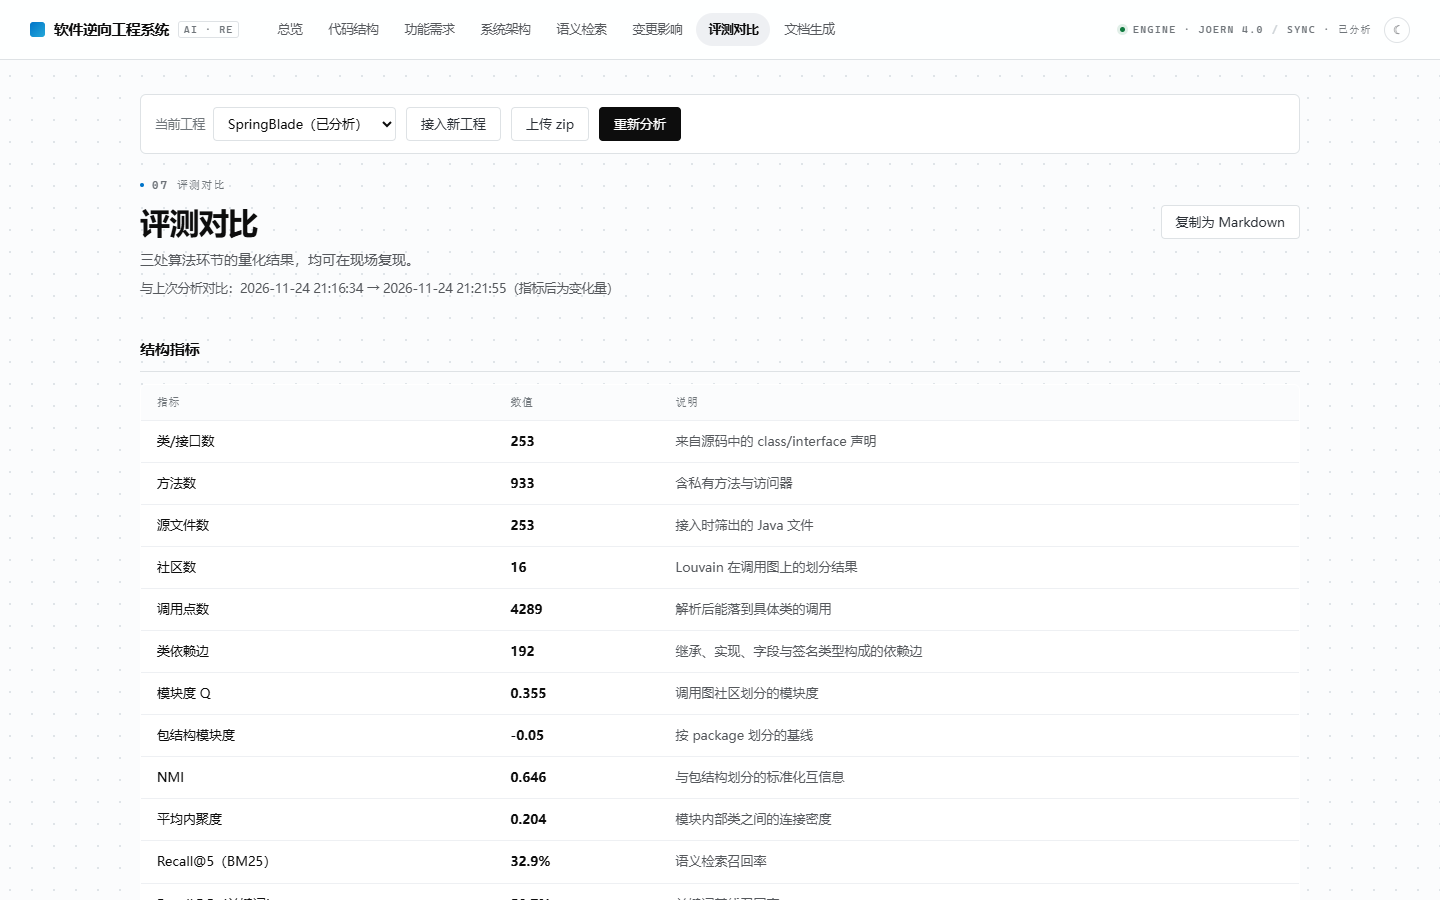
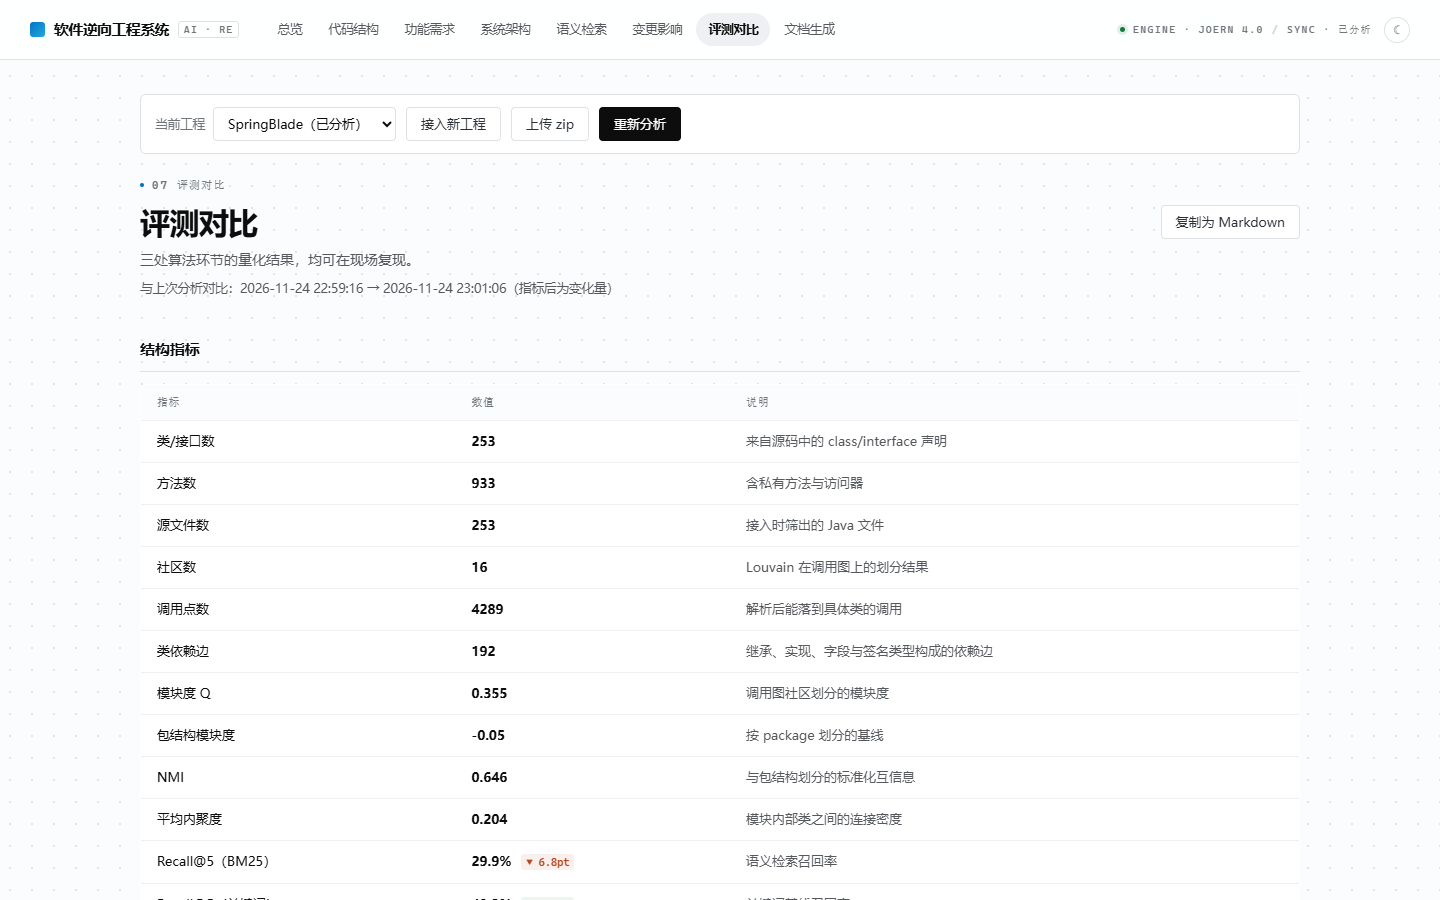
fix: 功能树的重复观感（跨层同名合并、同名类按包名区分、空模块不再显示）

diff --git a/demo/backend/app/core/pipeline.py b/demo/backend/app/core/pipeline.py
@@ -245,6 +245,65 @@ def _build_graph(pid, scan=None):
     return adjacency, labels, quality, package_labels, classes, dep_edges
 
 
+GENERIC_MODULE_NAMES = {"功能模块", "模块", "其他", "未命名"}
+# 包名末段 → 更具体的模块名；查不到再用分层兜底
+PACKAGE_NOUNS = {
+    "mapper": "数据访问", "dao": "数据访问", "repository": "数据访问", "jdbc": "数据访问",
+    "entity": "数据模型", "model": "数据模型", "pojo": "数据模型", "dto": "数据模型",
+    "vo": "数据模型", "param": "参数模型", "params": "参数模型",
+    "util": "工具方法", "utils": "工具方法", "tool": "工具方法", "helper": "工具方法",
+    "config": "配置装配", "properties": "配置装配", "launcher": "启动装配",
+    "feign": "远程调用", "client": "远程调用", "provider": "远程调用",
+    "cache": "缓存", "redis": "缓存",
+    "handler": "请求处理", "filter": "请求处理", "interceptor": "请求处理", "advice": "请求处理",
+    "controller": "接口", "web": "接口", "endpoint": "接口", "resource": "接口",
+    "service": "业务逻辑", "impl": "业务逻辑", "biz": "业务逻辑",
+    "exception": "异常处理", "wrapper": "视图装配", "support": "支撑组件",
+}
+LAYER_MODULE_NAMES = {"接入层": "接口模块", "业务层": "业务模块", "数据层": "数据模块",
+                      "领域层": "领域模块", "公共层": "公共模块", "其他": "杂项模块"}
+
+
+def _package_domain(members):
+    """包名里的业务域：跳过 org/公司名后取第一个有意义的段（develop / seata.storage / common）。"""
+    votes = {}
+    for member in members:
+        parts = [part for part in (member.get("package") or "").split(".") if part]
+        if len(parts) >= 3:
+            domain = parts[2]
+            if domain not in ("core", "common"):
+                votes[domain] = votes.get(domain, 0) + 1
+    if votes:
+        return max(votes.items(), key=lambda kv: kv[1])[0]
+    return ""
+
+
+def _package_module_name(members):
+    """从成员的包名末段里挑一个最常见的语义词，给泛称模块换一个具体的名字。"""
+    votes = {}
+    for member in members:
+        parts = [part for part in (member.get("package") or "").split(".") if part]
+        for part in reversed(parts[-3:]):
+            noun = PACKAGE_NOUNS.get(part.lower())
+            if noun:
+                votes[noun] = votes.get(noun, 0) + 1
+                break
+    base = ""
+    if votes:
+        base = max(votes.items(), key=lambda kv: kv[1])[0]
+    else:
+        layers = [member.get("layer") for member in members if member.get("layer")]
+        if layers:
+            layer = max(set(layers), key=layers.count)
+            base = LAYER_MODULE_NAMES.get(layer, "")
+    # 只有分类词（业务逻辑、数据访问…）时前面补业务域，"业务逻辑" 与 "业务逻辑（service）"
+    # 这种看着像重名的模块就能区分开
+    domain = _package_domain(members)
+    if base and domain and domain.lower() not in base.lower():
+        return "%s·%s" % (domain, base)
+    return base
+
+
 def _store_modules(pid, adjacency, labels, classes):
     db.execute("DELETE FROM modules WHERE project_id=?", (pid,))
     by_id = {cls["id"]: cls for cls in classes}
@@ -278,6 +337,9 @@ def _store_modules(pid, adjacency, labels, classes):
     for community in sorted(set(labels.values())):
         members = [by_id[node] for node, label in labels.items() if label == community]
         name, evidence = named.get(community, ("功能模块", ""))
+        # 「功能模块」这类泛称信息量为零：优先按包名后缀换成更具体的词，再退化到分层
+        if name in GENERIC_MODULE_NAMES:
+            name = _package_module_name(members) or name
         # 大工程里不同社区常被命名成同一个词，用包名片段区分，避免「用户管理 ×3」
         if name in used_names:
             packages = [m.get("package") or "" for m in members]
@@ -322,7 +384,8 @@ def _store_functions(pid):
     for module in modules:
         methods = db.query(
             "SELECT m.id, m.name, m.return_type, m.params, m.is_public, m.doc, m.line, "
-            "c.name AS class_name, c.layer FROM methods m JOIN classes c ON c.id=m.class_id "
+            "c.name AS class_name, c.layer, c.package AS package "
+            "FROM methods m JOIN classes c ON c.id=m.class_id "
             "WHERE m.project_id=? AND c.module_id=?", (pid, module["id"]))
         candidates = [m for m in methods
                       if m["is_public"] and not _is_accessor(m)
@@ -344,10 +407,33 @@ def _store_functions(pid):
         entry = "%s.%s" % (method["class_name"], method["name"])
         entries.append({"id": method["id"], "label": label, "entry": entry,
                         "return_type": method["return_type"], "module_id": module["id"],
-                        "line": method["line"]})
+                        "line": method["line"], "package": method["package"] or "",
+                        "layer": method["layer"] or ""})
         rows.append(item)
 
     summaries = knowledge.summarize_functions(entries)
+
+    # 同一件事在接入层、业务层、实现类里各出现一次（创建订单 → Controller / Service / Impl），
+    # 对「功能」来说是一个能力，只保留最靠近入口的那条，其余视为实现细节。
+    by_label = {}
+    for entry in entries:
+        by_label.setdefault((entry["module_id"], entry["label"]), []).append(entry)
+    drop = set()
+    for group in by_label.values():
+        classes = {entry["entry"].split(".")[0] for entry in group}
+        layers = {entry.get("layer") or "" for entry in group}
+        # 只有「跨层同名」才算同一件事的不同实现；同层的多个类（各类 TokenGranter）
+        # 是并列能力，不能合并
+        if len(group) > 1 and len(classes) > 1 and len(layers) > 1:
+            keep = min(group, key=lambda e: (LAYER_RANK.get(e.get("layer"), 9), e["line"]))
+            for entry in group:
+                if entry is not keep:
+                    drop.add(id(entry))
+    if drop:
+        # entries 与 rows 一一对应，删条目时必须同步删行，否则后面按索引写库会错位
+        kept = [(entry, row) for entry, row in zip(entries, rows) if id(entry) not in drop]
+        entries = [entry for entry, _ in kept]
+        rows = [row for _, row in kept]
 
     # 同一模块里重名时补类名；同一个类的重载仍重名时补行号。
     # 两轮都以「原始标签」为基准，避免出现「xxx（A）（第 3 行）」这种叠加。
@@ -359,14 +445,38 @@ def _store_functions(pid):
             groups.setdefault((entry["module_id"], entry["label"]), []).append(entry)
         return [g for g in groups.values() if len(g) > 1]
 
+    SKIP_SEGMENTS = {"com", "org", "cn", "io", "net", "java", "main", "controller", "impl",
+                     "service", "mapper", "dao", "web", "api", "rest", "provider"}
+
+    def pkg_hint(pkg):
+        """挑一个能区分同名类的包名片段（demo / desk / seata…）。"""
+        parts = [part for part in (pkg or "").split(".") if part]
+        for part in reversed(parts):
+            if part.lower() not in SKIP_SEGMENTS:
+                return part
+        return parts[-1] if parts else ""
+
+    def short_pkg(pkg):
+        """包名末两段，用来区分不同包里同名的类（desk.controller / demo.controller）。"""
+        parts = [part for part in (pkg or "").split(".") if part]
+        return ".".join(parts[-2:]) if len(parts) >= 2 else (parts[-1] if parts else "")
+
     for group in dup_groups():
+        classes = {entry["entry"].split(".")[0] for entry in group}
+        hints = {pkg_hint(entry.get("package")) for entry in group}
         for entry in group:
             cls = entry["entry"].split(".")[0]
-            entry["label"] = "%s（%s）" % (origin[id(entry)], cls)
+            # 同名类分布在不同的包里（SpringBlade 里 NoticeController 就有两份）：
+            # 用包名里的业务域区分，比只差一个行号更容易看懂
+            if len(classes) == 1 and len(hints) > 1:
+                entry["label"] = "%s（%s.%s）" % (origin[id(entry)], pkg_hint(entry.get("package")), cls)
+            else:
+                entry["label"] = "%s（%s）" % (origin[id(entry)], cls)
     for group in dup_groups():
+        # 同一个类里有多个方法被命名成同一个中文短语时，用方法名区分，
+        # 比只给行号更说明「这是另一个方法」而不是重复。
         for entry in group:
-            cls = entry["entry"].split(".")[0]
-            entry["label"] = "%s（%s 第 %s 行）" % (origin[id(entry)], cls, entry["line"])
+            entry["label"] = "%s（%s）" % (origin[id(entry)], entry["entry"])
 
     leaves = 0
     for module in modules:

diff --git a/demo/backend/app/services.py b/demo/backend/app/services.py
@@ -170,6 +170,9 @@ def functions(pid):
         children = [{"id": leaf["id"], "name": leaf["name"], "summary": leaf["summary"],
                      "evidence": leaf["evidence"], "module_id": leaf["module_id"]}
                     for leaf in leaves if leaf["parent_id"] == root["id"]]
+        # 这个模块一条功能都没恢复出来时，只剩一个空壳，前端不需要它
+        if not children:
+            continue
         tree.append({"id": root["id"], "name": root["name"], "summary": root["summary"],
                      "children": children})
     return {"tree": tree, "leaf_count": len(leaves)}

diff --git a/demo/README.md b/demo/README.md
@@ -124,15 +124,15 @@ demo/
 | 类 / 方法 / 调用点 | 253 / 933 / 4289 |
 | 属性图 | 38397 节点 / 68141 边（AST 34860、CALL 4434、CFG 12672、CDG 2738、DDG 9120、REF 4317） |
 | 社区 | 16 个（同名主语归并后），Q=0.355，包结构模块度 −0.05，NMI=0.646，内聚 0.204；类依赖边 192 条 |
-| 功能树 | 16 个一级模块、73 条二级功能 |
-| 检索 Recall@5 | 融合 65.8%、关键词 50.7%、向量 35.6%、BM25 32.9%（73 条查询） |
+| 功能树 | 16 个一级模块、67 条二级功能 |
+| 检索 Recall@5 | 融合 62.7%、关键词 49.3%、向量 32.8%、BM25 29.9%（67 条查询） |
 
 对比自研解析器（同一工程、`engine=self`）：253 类 / 420 方法（Lombok 与注解方法解析不全）、
 属性图 1902 节点 / 5188 边——这也是把 Joern 作为默认大工程引擎的原因。
 
-> 说明：73 条查询是按「方法名 + 中文别名」构造的中文查询，合成分母较小，数值用于同工程内的横向量比较，
-> 不代表对外部数据的绝对效果。关键词通道在这类查询上偏高（50.7%）——证据串里常直接含类名，子串命中容易；
-> 融合通道把 BM25、向量与调用图邻居一起用，达到 65.8%。换成人写的口语提问，关键词通道会明显掉下去。
+> 说明：67 条查询是按「方法名 + 中文别名」构造的中文查询，合成分母较小，数值用于同工程内的横向量比较，
+> 不代表对外部数据的绝对效果。关键词通道在这类查询上偏高（49.3%）——证据串里常直接含类名，子串命中容易；
+> 融合通道把 BM25、向量与调用图邻居一起用，达到 62.7%。换成人写的口语提问，关键词通道会明显掉下去。
 > minishop 那组查询（20 条）里融合 100%、BM25 70%、向量 65%、关键词 45%，可以对照看。
 
 ## 前端交互（大工程可读性）
@@ -142,7 +142,7 @@ demo/
 表格表头与 HUD 文本走等宽大写字母间距；顶栏右侧是 `ENGINE / SYNC` 的仪表式状态，总览右上角
 还有一块 `CPG · EDGES · MODULES · RECOVERY` 的虚线引导文本块。窄屏（≤960px）顶栏折成两行、
 导航横向滚动，≤640px 收掉模块表的「包含的类」列。
-以 SpringBlade 为规模样本（253 文件 / 933 方法 / 16 模块 / 73 条功能）打磨过一轮：
+以 SpringBlade 为规模样本（253 文件 / 933 方法 / 16 模块 / 67 条功能）打磨过一轮：
 
 - **代码结构**：按「模块 → 包目录 → 文件 → 类 → 方法」两级折叠，默认全部收起，页面从 ~12000px 降到 6 行模块；
   顶部过滤框支持按路径、包名、类名实时筛选（命中时自动展开），并有展开/折叠全部。
@@ -194,7 +194,7 @@ LLM_MODEL=gpt-4o-mini
   接口按向量检索的形状写，接入真实 embedding 时替换 `_build_vectors` / `_vector_scores`；
 - 检索评测的查询集由功能条目构造，融合通道会经「功能条目 → 证据方法」一跳，因此在该集合上领先；
   换成人写提问，各通道差距会收窄；SpringBlade 这类注释稀疏的工程里，方法文档会用方法名推的中文
-  别名补全，检索指标因此比带 javadoc 的工程低（73 条查询：融合 65.8%、关键词 50.7%、向量 35.6%、BM25 32.9%）；
+  别名补全，检索指标因此比带 javadoc 的工程低（67 条查询：融合 62.7%、关键词 49.3%、向量 32.8%、BM25 29.9%）；
 - 外部依赖按包名/类名的整段前缀归类（缓存、消息、对象存储、数据访问等），是启发式规则，
   第三方通用库会被归到「数据访问」或直接忽略；工具类（`*Util/*Utils/*Helper/*Constant`）下的方法
   不计入功能条目，因此工具类的方法不会出现在功能树里；

diff --git a/demo/docs/系统框架设计.md b/demo/docs/系统框架设计.md
@@ -149,7 +149,7 @@ POST /analyze → status=running
 | 算法 | 输入 | 输出 | 对比口径 |
 | --- | --- | --- | --- |
 | Louvain 社区发现 | 类级调用图（含包内依赖边） | 候选模块划分 | 与包结构划分比模块度 Q、NMI；minishop Q=0.533 / NMI=0.135，SpringBlade 归并后 Q=0.355 / NMI=0.646 |
-| 检索排序（BM25 / 向量 / 融合） | 自然语言查询 | Top-k 代码位置 | 与整串关键词匹配比 Recall@5：minishop 20 条查询 融合 100% / BM25 70% / 向量 65% / 关键词 45%；SpringBlade 73 条查询 融合 65.8% / 关键词 50.7% / 向量 35.6% / BM25 32.9%（查询已去掉消歧后缀） |
+| 检索排序（BM25 / 向量 / 融合） | 自然语言查询 | Top-k 代码位置 | 与整串关键词匹配比 Recall@5：minishop 20 条查询 融合 100% / BM25 70% / 向量 65% / 关键词 45%；SpringBlade 67 条查询 融合 62.7% / 关键词 49.3% / 向量 32.8% / BM25 29.9%（查询已去掉消歧后缀） |
 | 大模型归纳（可选） | 模块内类名、方法名与结构特征 | 模块职责名、功能条目 | 与「只给代码不给结构」的启发式相比的命名一致性；未配模型时走规则，结论标注来源 |
 
 融合通道的顺序是「查询 → 功能条目（BM25+向量）→ 证据方法 → 调用图邻居」，比单路多一次证据跳转，
@@ -230,7 +230,7 @@ SpringBlade 实测：253 类 / 933 方法 / 4289 调用，属性图 38397 节点
 ## 10. 界面
 
 八个视图都用同一套版式：顶栏横导航 + 等宽 HUD（引擎 / 同步状态），正文按「眉标 → 标题 →
-内容」排布，底部状态页脚。截图取自 SpringBlade（253 类 / 933 方法 / 16 模块 / 73 功能条目，
+内容」排布，底部状态页脚。截图取自 SpringBlade（253 类 / 933 方法 / 16 模块 / 67 功能条目，
 `engine=joern`），也就是系统的规模上限。
 
 ### 10.1 总览

diff --git a/demo/docs/图表清单.md b/demo/docs/图表清单.md
@@ -1,6 +1,6 @@
 # 图表清单（论文用）
 
-截图均由 demo 在 SpringBlade（253 类 / 933 方法 / 4289 调用点 / 16 模块 / 73 条功能条目，
+截图均由 demo 在 SpringBlade（253 类 / 933 方法 / 4289 调用点 / 16 模块 / 67 条功能条目，
 `engine=joern`）上实跑生成，分辨率 1440×900（架构图 1400×880），PNG。
 
 插入论文时的建议：正文宽度 15 cm（页面正文宽约 16 cm），按此缩放宽高比约 5:3 时高度约 9 cm，
@@ -59,7 +59,7 @@
 | 表 2 | 数据库表设计 | `demo/docs/系统框架设计.md` 第 4 节（10 张表） |
 | 表 3 | 示例工程结构指标 | 类 253、方法 933、调用点 4289、社区 12、属性图 38397 节点 / 68141 边 |
 | 表 4 | 三处算法接入的输入、输出与对比 | 社区发现（模块度、NMI）、语义检索（Recall@5）、大模型归纳（人工判定准确率） |
-| 表 5 | 检索四模式对比 | 融合 65.8% / 关键词 50.7% / 向量 35.6% / BM25 32.9%（73 条查询） |
+| 表 5 | 检索四模式对比 | 融合 62.7% / 关键词 49.3% / 向量 32.8% / BM25 29.9%（67 条查询） |
 | 表 6 | 测试用例与结果 | 单元 / 接口 / 端到端，见 `demo/README.md` 的自检脚本说明 |
 
 ## 四、重新生成
